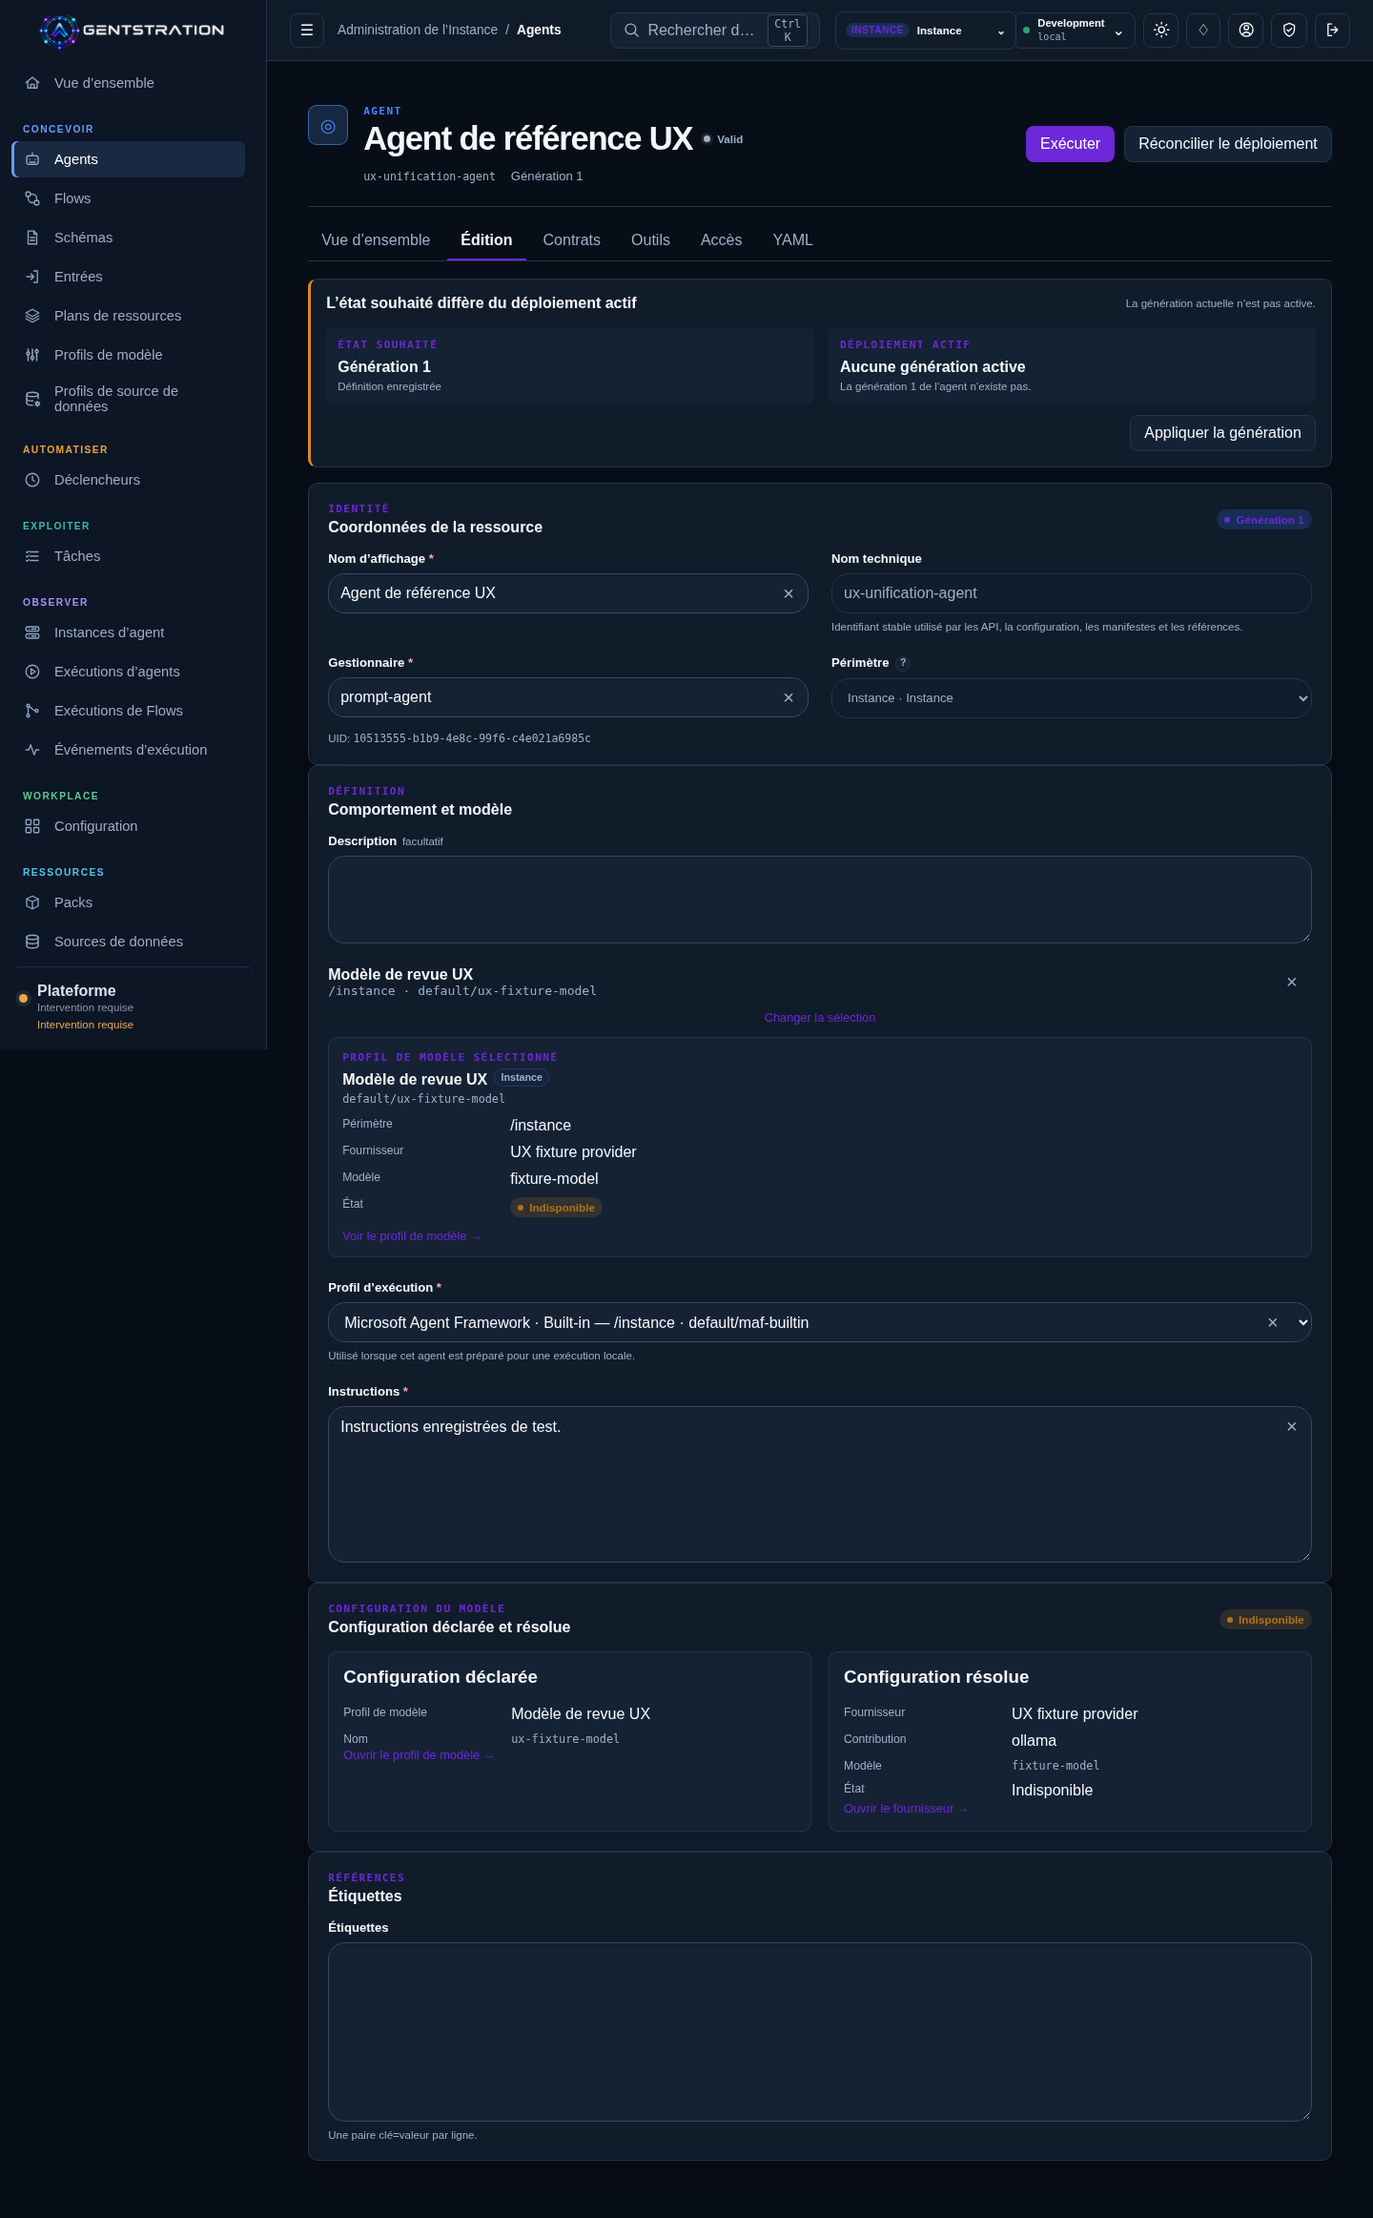
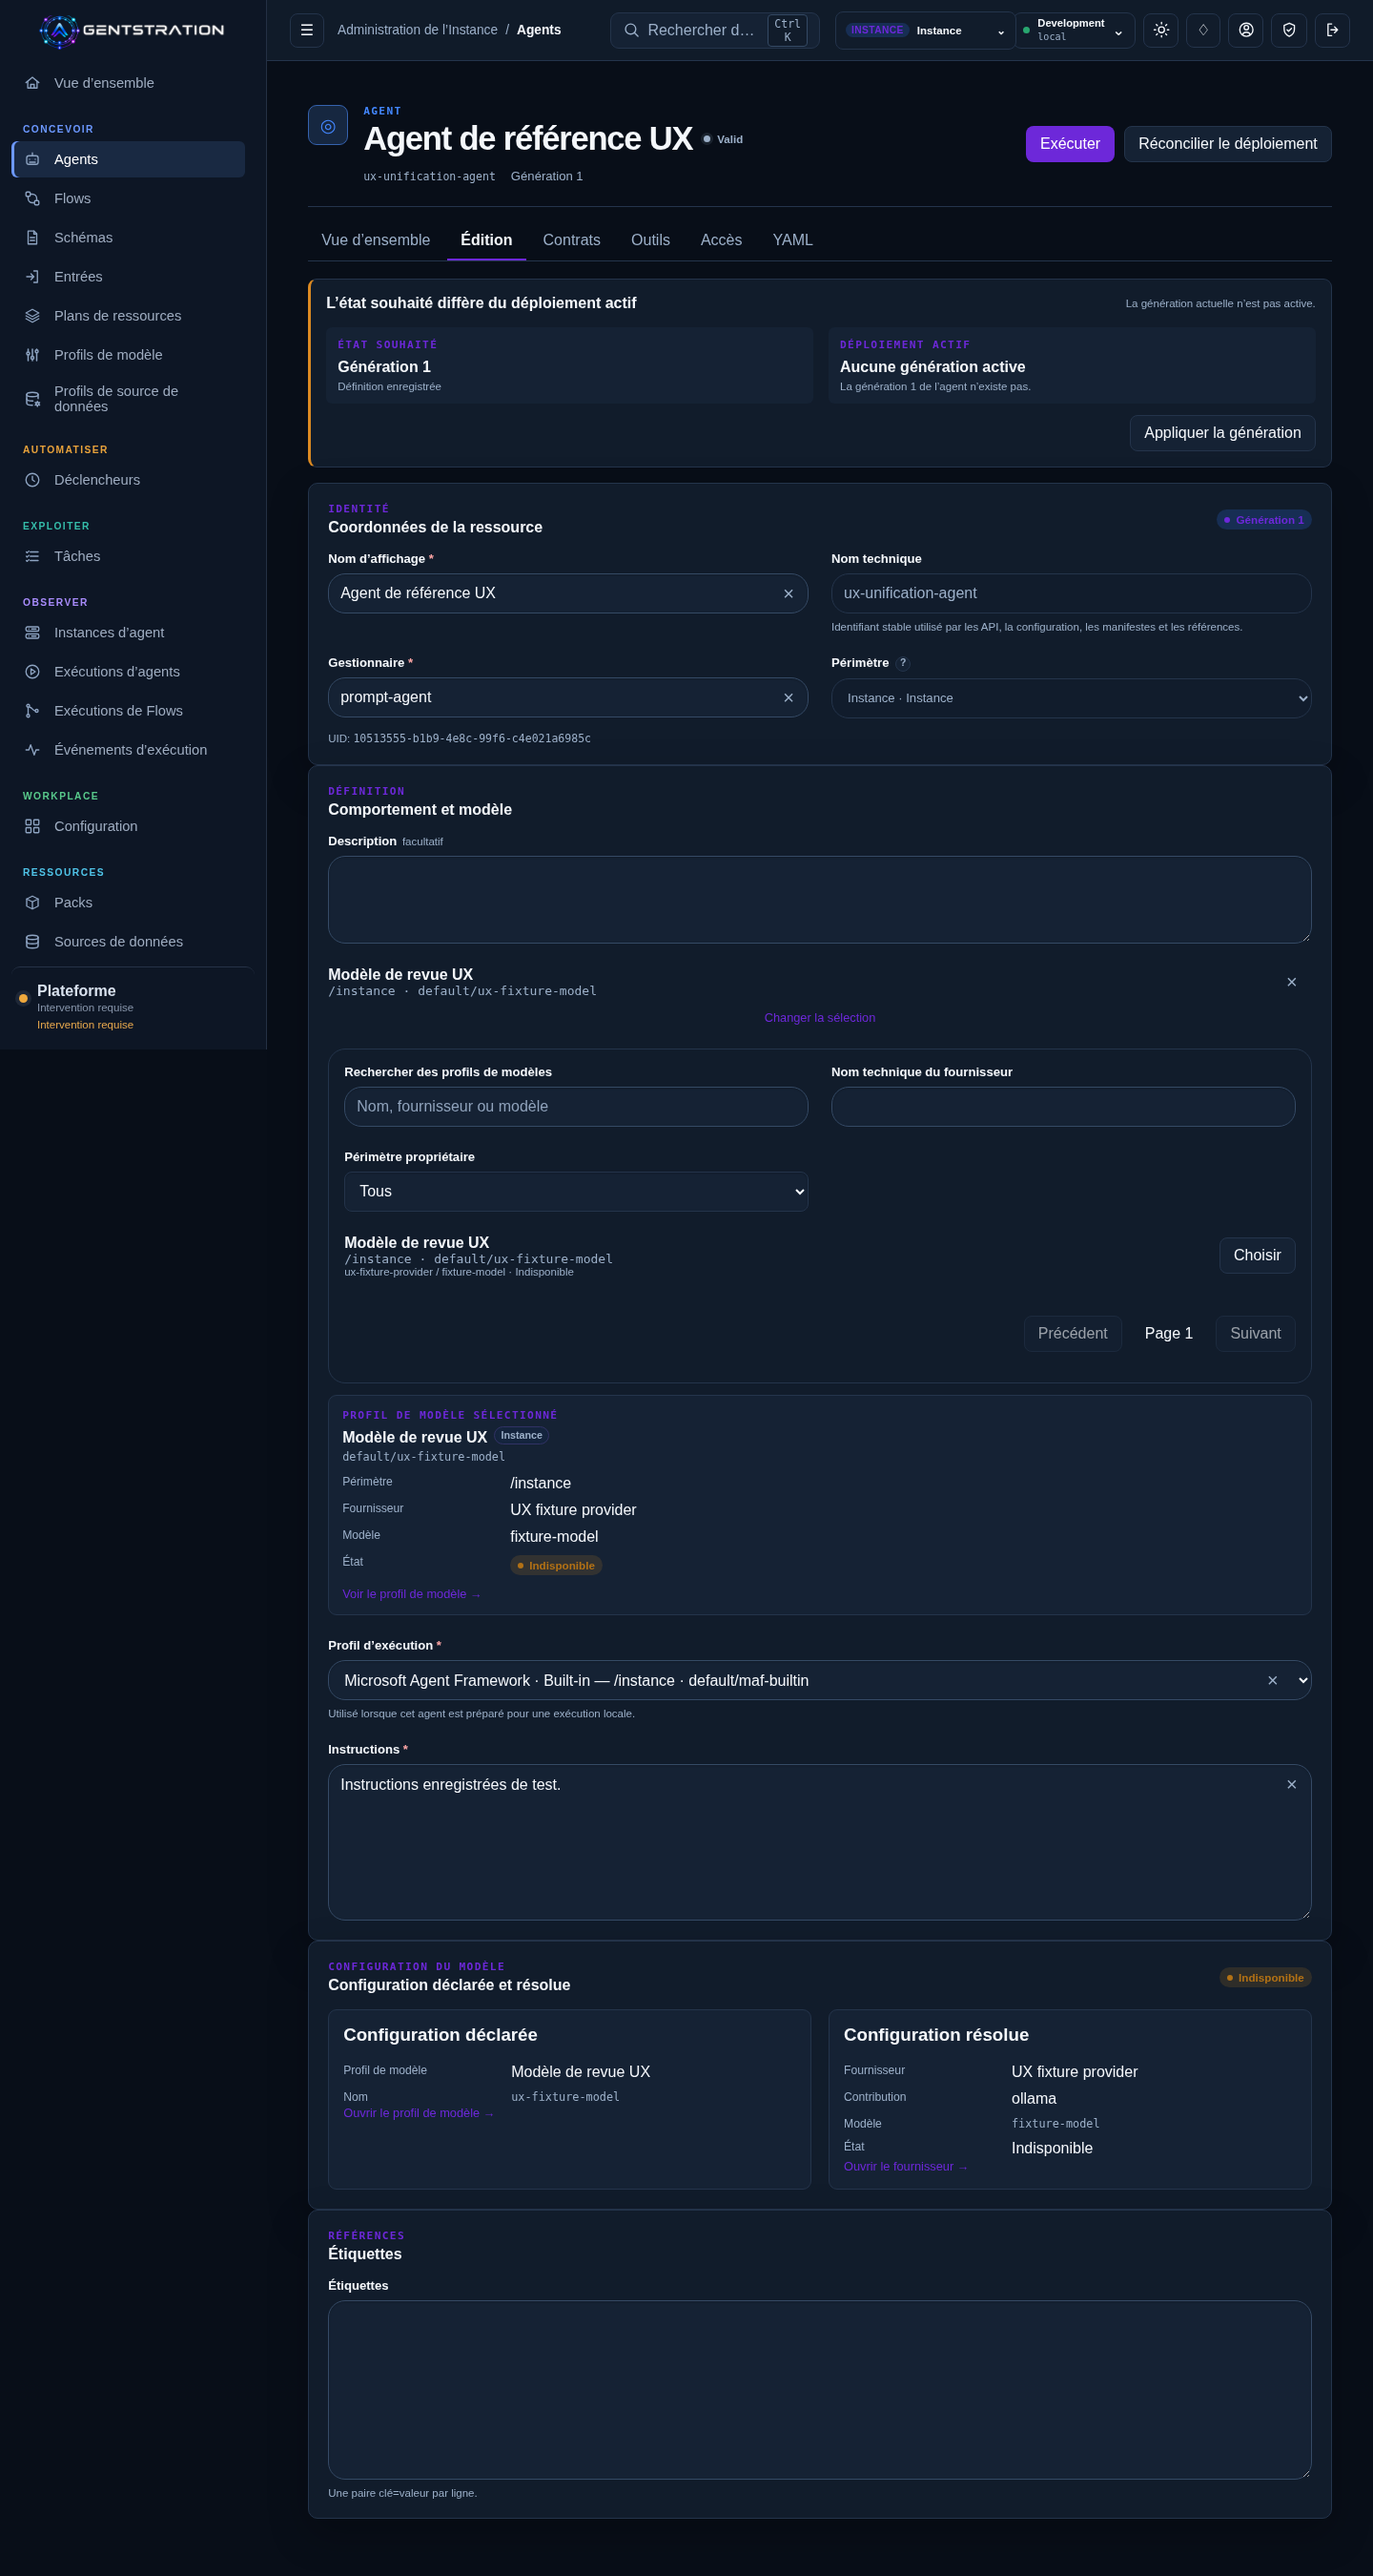
docs(ux): verify theme overrides across fields and collections

diff --git a/docs/ux/validation-implementation.md b/docs/ux/validation-implementation.md
@@ -36,7 +36,7 @@ Les données des captures sont des fixtures locales de revue, sans appel à un m
 - filtre du catalogue Outils et effacement ;
 - Workplace : filtre de statut sélectionné puis vidé dans le champ, avec focus conservé ;
 - absence de débordement horizontal à 1 440 et 390 pixels, apparences claire et sombre ;
-- surcharge des variables de thème : rayon de champ à 18 pixels et couleur d’action modifiée sans modifier le composant.
+- surcharge des variables de thème : rayons du champ et de la collection à 18 pixels, espacement de collection et de pagination à 24 pixels, couleur d’action modifiée sans modifier les composants.
 
 Ces contrôles ponctuels ne constituent pas de nouveaux parcours réutilisables du catalogue Playwright.
 
